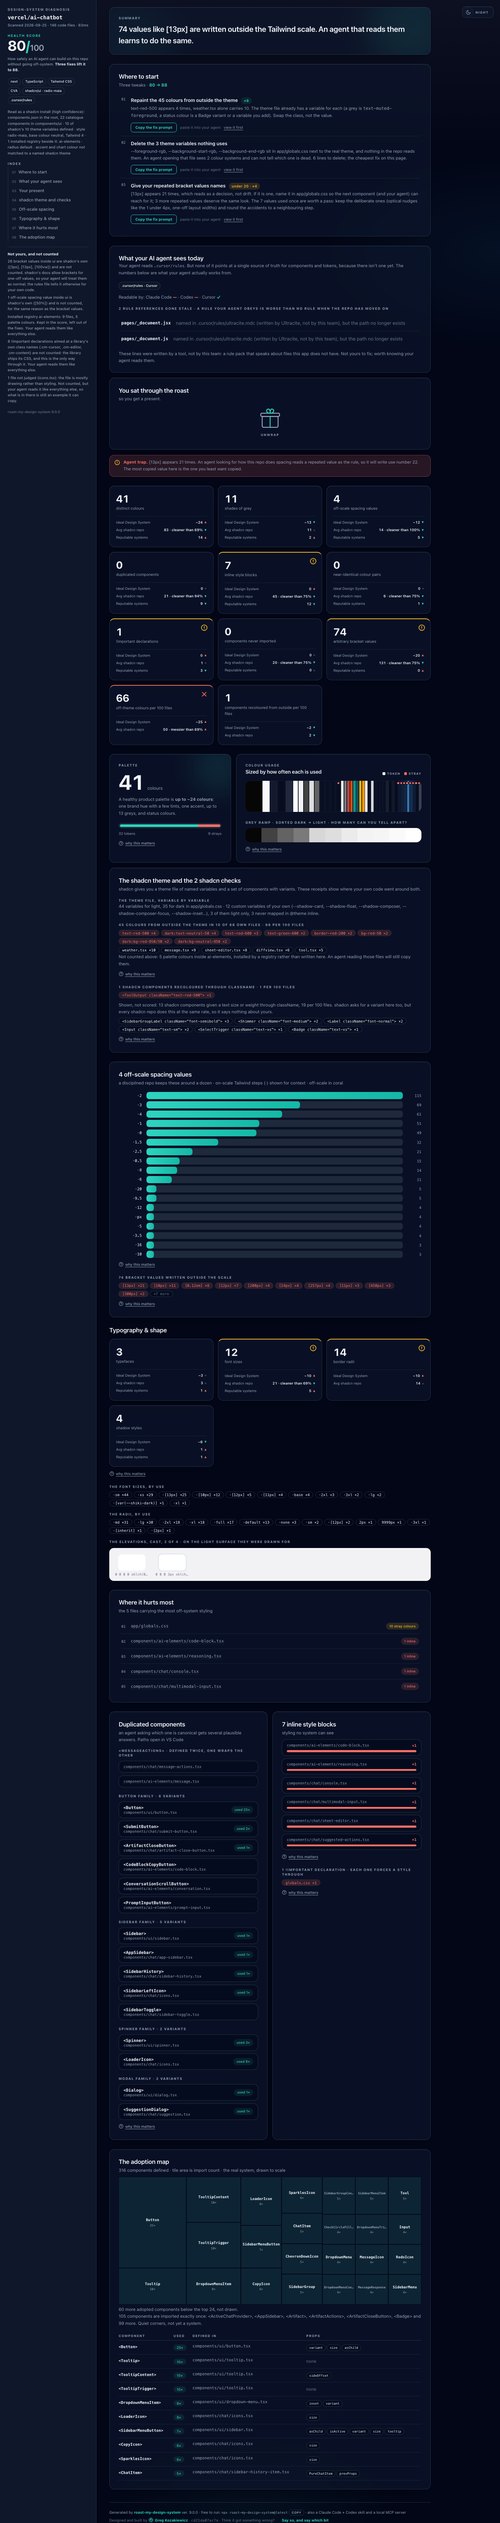
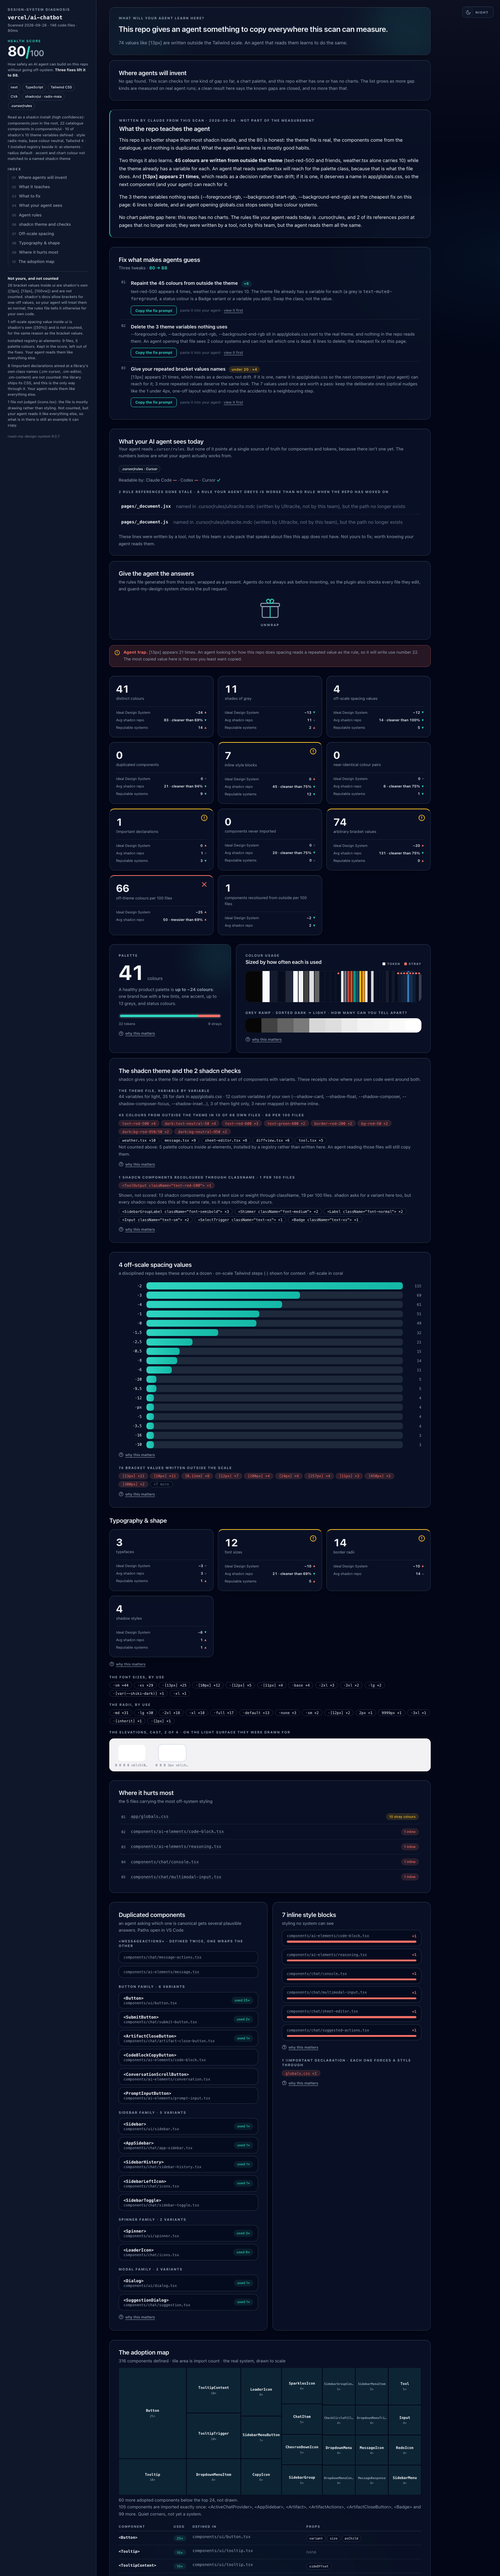
9.1.0: The report answers one question first: what will your agent learn here?

Changed region(s): [[0.215, 0.0, 0.86, 1.0], [0.0, 0.0, 0.1843, 0.1559]]

diff --git a/docs/index.html b/docs/index.html
@@ -89,16 +89,23 @@
 <div class="install"><b>npx</b> roast-my-design-system@latest</div>
 <p class="sub">Run it at the root of a UI repo. About a second later a self-contained HTML report opens. No account, no network, no telemetry, nothing in your repo is changed. Free, <a href="https://www.npmjs.com/package/roast-my-design-system" style="color:var(--mint);text-decoration:none">on npm</a>, MIT.</p>
 
+<h2>Roast. Teach. Guard.</h2>
+<ul class="lead-list">
+<li><b>Roast</b> the repo to find its real design system, the mess in it, and the gaps.</li>
+<li><b>Teach</b> the agent, through generated rules and a local MCP server.</li>
+<li><b>Guard</b> every edit, so the agent does not have to remember to ask.</li>
+</ul>
+
 <h2>The mess an agent adds is a map of the gaps in your system</h2>
 <p class="sub">An agent copies what it finds. Where the repo has no answer, it makes one up, and the next agent copies that. This tool draws that map before the gap becomes a layer. It finds the places with no answer, measures the mess already there, writes the rules for your agent, and checks every edit the agent makes, so nobody has to remember to ask.</p>
 <p class="sub"><b>A script does the counting. Claude writes the explanation.</b> Every number in the report comes from a deterministic read of your files, the same numbers every run. Where an AI reads the scan for you, its text is labelled as written by AI and kept apart from the measurements.</p>
 
 <h2>What you get</h2>
 <ul class="lead-list">
-<li><b>The gaps, named.</b> A "Where agents will invent" section lists the places where the repo has no answer yet, with the files that prove each one and the single move that closes it. Today it knows one gap for certain, because the agent runs found it: charts that paint their series colours by hand in a repo with no chart palette. Across 126 public repos, 43 look like that. The list grows only when a gap has been measured.</li>
+<li><b>The gaps, named.</b> The report now opens with what the agent will learn here, and "Where agents will invent" comes first: it lists the places where the repo has no answer yet, with the files that prove each one and the single move that closes it. Today it knows one gap for certain, because the agent runs found it: charts that paint their series colours by hand in a repo with no chart palette. Across 126 public repos, 43 look like that. The list grows only when a gap has been measured.</li>
 <li><b>A health score you can defend in a meeting.</b> 0 to 100, the same number every run, measured against 3 yardsticks: the ideal norms of a design system, the median of the 34 product repos at the core of a 112-repo benchmark, and 10 reputable systems (Primer, Polaris, Carbon, shadcn/ui and others). Monorepos get a score per package, so the tidy UI library stops hiding the messy app.</li>
 <li><b>Every finding with its file path.</b> Every colour and its near-identical twin, every off-scale spacing value, typeface, duplicated or never-imported component, inline style block and !important, each with a real file path. The adoption map draws your real system to scale, every component's tile sized by its import count, the never-imported grouped by the year git last saw them.</li>
-<li><b>What to fix first.</b> A "Where to start" list derived from your own numbers, with what each move is worth and where the score lands if you do them all. Every move carries a copy button with a ready-made fix prompt for your agent. Fix, rescan, press the next button.</li>
+<li><b>What to fix first.</b> A "Fix what makes agents guess" list derived from your own numbers, with what each move is worth and where the score lands if you do them all. Every move carries a copy button with a ready-made fix prompt for your agent. Fix, rescan, press the next button.</li>
 <li><b>Rules that stop the mess coming back.</b> A generated design-system-rules.md with the canonical components, your token file and the known duplicates to avoid. One flag writes it into every agent file you have: Claude, Cursor, GitHub Copilot and Windsurf. Every scan also checks the rules you already have for stale references.</li>
 </ul>
 
@@ -156,13 +163,13 @@
 <tr><td><code>... --mcp</code></td><td>The scan as a local MCP server: five tools your agent calls while writing UI, from "is there a Button already?" to "review my changes", plus the roast-fix prompt serving the top fix from a fresh scan. Nothing leaves your machine</td></tr>
 <tr><td><code>... --check</code></td><td>The working tree's changed files checked against the design system, in the terminal. Exits 1 on findings, so it slots into scripts</td></tr>
 <tr><td><code>... --by "Dwayne Hicks"</code></td><td>A requester credit in the report header, next to the scan date</td></tr>
-<tr><td><code>... --notes &lt;file.md&gt;</code></td><td>An agent-written analysis embedded in the report as "What the numbers mean": labelled as written by AI, kept apart from the measured numbers. The Claude Code skill writes and passes this automatically; the flag is here so any agent can</td></tr>
+<tr><td><code>... --notes &lt;file.md&gt;</code></td><td>An agent-written analysis embedded in the report as "What the repo teaches the agent": labelled as written by AI, kept apart from the measured numbers. The Claude Code skill writes and passes this automatically; the flag is here so any agent can</td></tr>
 <tr><td><code>... --section "Title" &lt;file.md&gt;</code></td><td>An agent-written chapter appended after the notes, same styling, same written-by-AI label, with sub-headings allowed. Repeatable, so analysis that outgrows the notes still lives inside the report instead of a hand-built page</td></tr>
 <tr><td><code>... --exclude lab/</code></td><td>Leave a folder out of the scan, or list folders in a .roastignore file at the repo root. The report prints every exclusion in the header with its file count, so a scoped score always says it is scoped</td></tr>
 <tr><td><code>... --json</code></td><td>The scan summary as JSON on stdout, for scripts and pipelines</td></tr>
 <tr><td><code>... --theme light / --out &lt;file&gt; / --no-open</code></td><td>Light report, custom report path, don't open the browser</td></tr>
 <tr><td><code>/roast-my-design-system:review</code> (in Claude Code)</td><td>The plugin's second skill: the same check as --check, in chat. Each changed file's findings with the fix named, the fixes applied on request, the check re-run. About a second, no score</td></tr>
-<tr><td><code>/roast-my-design-system</code> (in Claude Code)</td><td>The full experience: the roast in chat and embedded in the report as "What the numbers mean", the rules offer, and the fix loop with Claude on your own numbers</td></tr>
+<tr><td><code>/roast-my-design-system</code> (in Claude Code)</td><td>The full experience: the roast in chat and embedded in the report as "What the repo teaches the agent", the rules offer, and the fix loop with Claude on your own numbers</td></tr>
 </tbody>
 </table></div>
 <p class="sub">One scan writes rules for every agent: Claude, Cursor, GitHub Copilot, and Windsurf. Every scan also checks the agent rules you already have and flags stale references, no flag needed.</p>

diff --git a/README.md b/README.md
@@ -17,7 +17,7 @@ npx roast-my-design-system@latest
 Run it at the root of a UI repo. One second later, a report opens.
 No account. No network. No telemetry. Nothing in your repo changes.
 
-**Current release: 9.0.** Version history in [CHANGELOG.md](CHANGELOG.md).
+**Current release: 9.1.** Version history in [CHANGELOG.md](CHANGELOG.md).
 
 ## The idea
 
@@ -73,7 +73,7 @@ The places where the repo has no answer yet.
 
 One gap is known for certain today, because the runs found it: charts hardcoding colours in a repo with no chart palette. 43 of 126 public repos look like that. A gap joins the list when it has been measured.
 
-### Where to start
+### Fix what makes agents guess
 
 The mess the agent will copy, ranked by what fixing it is worth.
 
@@ -140,13 +140,13 @@ Eleven reports, hosted exactly as the tool writes them. Every number determinist
 - **[magicuidesign/magicui](https://gregkozakiewicz.github.io/roast-my-design-system/examples/magicui.html)** (registry): counted on the components it publishes, 52 off-theme colours per 100 files in the code it ships, its docs site kept out and named. Score 78.
 - **[adobe/spectrum-web-components](https://gregkozakiewicz.github.io/roast-my-design-system/examples/adobe-spectrum.html)** (Lit): hardcoded colours sitting beside 744 colour tokens, and 37 !important declarations. Score 66.
 
-The full report for vercel/ai-chatbot, with "What the numbers mean", Claude's read of the scan, under the verdict:
+The full report for vercel/ai-chatbot. The verdict answers what the agent will learn here, the gap section comes first, then "What the repo teaches the agent", Claude's read of the scan:
 
-![The full diagnosis report for vercel/ai-chatbot in dark mode: a fixed side panel with the health score and what it measures, the stack, how the repo was read as a shadcn install, an index of every section and what is not the team's and not counted; then the summary, the What the numbers mean analysis written by Claude, priced Where to start moves each with its copy-the-fix-prompt button, the wrapped present with the agent rules, an agent trap callout, 3-yardstick tiles including the 2 shadcn tiles, the adoption map treemap, palette forensics, the shadcn theme variable by variable, spacing receipts, typography specimens, offenders, duplicates, and the component usage ledger](assets/report-full-dark.png?v=9.0.6)
+![The full diagnosis report for vercel/ai-chatbot in dark mode: a fixed side panel with the health score and what it measures, the stack, how the repo was read as a shadcn install, an index of every section and what is not the team's and not counted; then the verdict on what the agent will learn here, the Where agents will invent section, the What the repo teaches the agent analysis written by Claude, priced Fix what makes agents guess moves each with its copy-the-fix-prompt button, the wrapped present with the agent rules, an agent trap callout, 3-yardstick tiles including the 2 shadcn tiles, the adoption map treemap, palette forensics, the shadcn theme variable by variable, spacing receipts, typography specimens, offenders, duplicates, and the component usage ledger](assets/report-full-dark.png?v=9.1.0)
 
 The same report in light mode (one file, built-in toggle):
 
-![The diagnosis report in light mode](assets/report-light-hero.png?v=9.0.6)
+![The diagnosis report in light mode](assets/report-light-hero.png?v=9.1.0)
 
 ## Why the numbers hold
 
@@ -203,13 +203,13 @@ One scan powers all of it; the flags decide what lands on disk. Combine freely.
 
 | Command&nbsp;&nbsp;&nbsp;&nbsp;&nbsp;&nbsp;&nbsp;&nbsp;&nbsp;&nbsp;&nbsp;&nbsp;&nbsp;&nbsp;&nbsp;&nbsp;&nbsp;&nbsp;&nbsp;&nbsp;&nbsp;&nbsp;&nbsp;&nbsp;&nbsp;&nbsp;&nbsp;&nbsp;&nbsp;&nbsp;&nbsp;&nbsp;&nbsp;&nbsp;&nbsp;&nbsp;&nbsp;&nbsp;&nbsp;&nbsp;&nbsp;&nbsp;&nbsp;&nbsp;&nbsp;&nbsp;&nbsp;&nbsp;&nbsp;&nbsp;&nbsp;&nbsp;&nbsp;&nbsp;&nbsp;&nbsp; | What you get |
 |---|---|
-| <code>...&nbsp;--notes&nbsp;&lt;file.md&gt;</code> | The agent's read of this scan, embedded in the report as **"What the numbers mean"**: which findings matter, which good numbers are accidents, what to fix first. Labelled as written by AI and kept apart from the measured numbers. The Claude Code skill writes and passes it automatically; the flag is here so any agent can |
+| <code>...&nbsp;--notes&nbsp;&lt;file.md&gt;</code> | The agent's read of this scan, embedded in the report as **"What the repo teaches the agent"**: which findings matter, which good numbers are accidents, what to fix first. Labelled as written by AI and kept apart from the measured numbers. The Claude Code skill writes and passes it automatically; the flag is here so any agent can |
 | <code>...&nbsp;--section&nbsp;"Title"&nbsp;&lt;file.md&gt;</code> | A further agent-written chapter after the notes, same styling, same label, sub-headings allowed. Repeatable |
 | `... --hook` | The check the Claude Code plugin runs after every edit, for hand-installed setups: reads the hook event on stdin, checks the file that changed, prints only the findings the edit added as JSON. Always exits 0 |
 | `... --mcp` | The scan as a local MCP server: 5 tools your agent calls while writing UI, plus the `roast-fix` prompt that serves the top fix from a fresh scan. See [Live answers over MCP](#live-answers-over-mcp) |
-| <code>/roast-my-design-system</code> (in&nbsp;Claude&nbsp;Code) | The full experience: the roast in chat *and* embedded in the report as "What the numbers mean", the rules offer, and the fix loop with Claude on your own numbers |
+| <code>/roast-my-design-system</code> (in&nbsp;Claude&nbsp;Code) | The full experience: the roast in chat *and* embedded in the report as "What the repo teaches the agent", the rules offer, and the fix loop with Claude on your own numbers |
 
-**"Why this matters"** is generic, ships with the tool and reads the same in every report. **"What the numbers mean"** is your agent's read of your repo, and only appears when an agent passed it.
+**"Why this matters"** is generic, ships with the tool and reads the same in every report. **"What the repo teaches the agent"** is your agent's read of your repo, and only appears when an agent passed it.
 
 ## Live answers over MCP
 
@@ -343,13 +343,13 @@ It runs the same check as `--check` on the files in your git diff and lists each
 You get the roast in chat plus `design-system-roast.html` at your repo root, a self-contained page with:
 
 - a **health score** computed from how your numbers sit against the ideal
-- **"What the numbers mean"**: Claude's read of your scan, embedded in the file you'll forward, labelled as written by Claude and kept apart from the measured numbers. The score alone can flatter; this section keeps a shared 85/100 honest
+- **"What the repo teaches the agent"**: Claude's read of your scan, embedded in the file you'll forward, labelled as written by Claude and kept apart from the measured numbers. The score alone can flatter; this section keeps a shared 85/100 honest
 - stat tiles comparing you to all 3 yardsticks
 - a **light/dark theme toggle** in one file
 - the usage-weighted palette bar, the grey ramp, the off-scale spacing receipts, the duplicate-component receipts with clickable file paths, and the worst-offenders ledger
-- a **Where to start** close: up to 3 moves derived from your repo's own numbers, each with a file-path receipt
-- a **Where agents will invent** list: the gaps where the repo has no answer yet, with the files that prove each one and the move that closes it
-- a **present** 🎁 below it: `design-system-rules.md` wrapped inside the report. Unwrap, then copy or download the agent rules generated from your scan
+- a **Fix what makes agents guess** list: up to 3 moves derived from your repo's own numbers, each with a file-path receipt
+- a **Where agents will invent** section, first under the verdict: the gaps where the repo has no answer yet, with the files that prove each one and the move that closes it, or the honest empty state when none is found
+- **Give the agent the answers**: `design-system-rules.md` wrapped inside the report as a present. Unwrap, then copy or download the agent rules generated from your scan
 
 After the roast, the skill offers to write `design-system-rules.md` to disk and merge it into your CLAUDE.md, `.cursor/rules` or AGENTS.md.
 

diff --git a/CHANGELOG.md b/CHANGELOG.md
@@ -2,6 +2,24 @@
 
 All notable changes to roast-my-design-system. One version everywhere: the npm package, the Claude Code plugin, and the report footer always match.
 
+## 9.1.0 — 2026-09-26
+
+- **The report answers one question first: what will your agent learn
+  here?** The verdict card opens with that question and a lead line that
+  says whether the repo gives an agent something to copy and where it
+  does not ("One gap remains: charts have no palette"). The measured
+  verdict follows under it. "Where agents will invent" moves up to sit
+  directly under the verdict, explains that a gap is not a violation
+  because there is no rule yet to break, and now appears on every scored
+  report: when no gap is found it says so and names the limit (one gap
+  kind is checked so far). Three sections are renamed to match the
+  question: "What the numbers mean" is "What the repo teaches the agent",
+  "Where to start" is "Fix what makes agents guess", and the present is
+  "Give the agent the answers", with a line on the edit hook and the pull
+  request check. The link preview title reads "repo: where an AI agent
+  will invent UI · score". Scores, tiles, yardsticks and every count are
+  unchanged. README screenshots reshot.
+
 ## 9.0.7 — 2026-09-26
 
 - **The README and the landing page lead with what the agent runs showed.**
